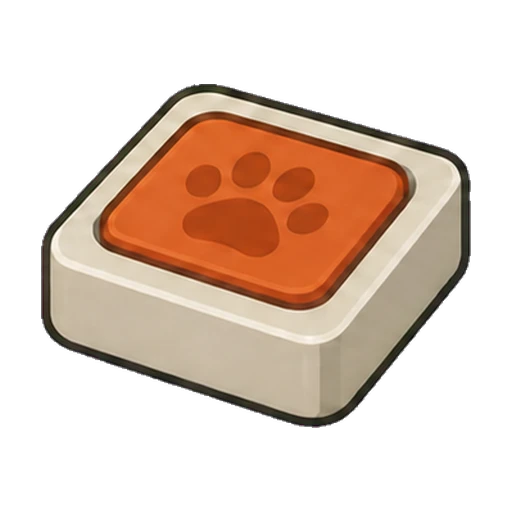
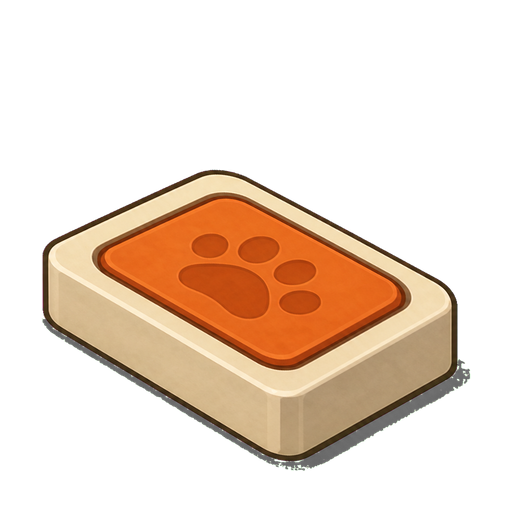
feat: 아이소 재작업 가구 7종을 넣고 stage1을 열었다
가구 아이소 재작업
  Codex가 만든 furniture-iso.webp 7종을 앱에 넣었다. 아이소의 핵심인
  좌우 대칭이 크게 잡혔다(상담 책상 좌우차 21.8도 -> 2.5도, 소파 37.2 -> 3.9,
  발도장 패드 32.1 -> 1.5). 패키지 catalog의 assetPath가 아직 옛
  furniture.png를 가리켜 생성기가 옛 값을 내므로 anchor는 override로 덮었다.

stage1 개방
  셸에서 문 밑선 (128,712)-(232,655)을 재서 격자로 되돌리니 y 4.87~6.37이다.
  칸 비율도 1.027이라 이미 정사각형이라 행 수는 그대로 둔다.

  문 위치와 통로를 단계별 표(STAGE_RULES)로 옮기고, 배치 검사·배회 가능 칸도
  단계를 받게 했다. 표에 있는 단계만 그린다 - 재지 않은 단계로 넘어가면
  이전 방으로 보여 주고 그 사실을 알린다(stage2~4가 아직 그렇다).

diff --git a/catdex-client/src/features/support-room-v3/support-room-v3.layout.ts b/catdex-client/src/features/support-room-v3/support-room-v3.layout.ts
@@ -11,7 +11,7 @@ import {
   type CompositeBehavior,
   type VisualBox,
 } from './render/sprite-layout';
-import { SHELL_GEOMETRY } from './render/shells.generated';
+import { SHELL_GEOMETRY, type RoomStage } from './render/shells.generated';
 
 export interface ObservationPlacement {
   furnitureId: FurnitureId;
@@ -33,8 +33,38 @@ export interface BusyObservationCat {
   on: FurnitureId;
 }
 
-const COLS = SHELL_GEOMETRY.stage0.cols;
-const ROWS = SHELL_GEOMETRY.stage0.rows;
+/**
+ * 단계별 방 규칙. 셸 그림에서 문 밑선을 재서 격자로 되돌린 값이다.
+ *
+ * 여기에 있는 단계만 실제로 열 수 있다(문 위치와 정사각 칸을 확인한 단계).
+ * 새 단계를 열려면 같은 방법으로 재서 한 줄 추가하면 된다.
+ */
+export interface StageRules {
+  /** 항상 비워 두는 출입문 앞 */
+  doorClearances: readonly GridRect[];
+  /** 문에서 방 가운데로 이어지는 통로 */
+  centerAisle: GridRect;
+}
+
+export const STAGE_RULES: Partial<Record<RoomStage, StageRules>> = {
+  // 문 밑선 (170,768)-(300,690) -> 격자 y 4.73~6.65
+  stage0: {
+    doorClearances: [{ x: 0, y: 4.6, width: 2, depth: 2 }],
+    centerAisle: { x: 2, y: 4.6, width: 3, depth: 2 },
+  },
+  // 문 밑선 (128,712)-(232,655) -> 격자 y 4.87~6.37
+  stage1: {
+    doorClearances: [{ x: 0, y: 4.7, width: 2, depth: 2 }],
+    centerAisle: { x: 2, y: 4.7, width: 4, depth: 2 },
+  },
+};
+
+/** 셸을 실제로 그릴 수 있는 단계. 확장 구매는 서버가 따로 판단한다. */
+export const CALIBRATED_STAGES = Object.keys(STAGE_RULES) as RoomStage[];
+
+export function stageRules(stage: RoomStage): StageRules {
+  return STAGE_RULES[stage] ?? STAGE_RULES.stage0!;
+}
 
 /**
  * 기본 장면 배치.
@@ -66,18 +96,9 @@ export interface GridRect {
   depth: number;
 }
 
-/**
- * 왼쪽 출입문 앞에 항상 비워 두는 2×2.
- *
- * 셸 원본에서 문지방 양 끝(170,768)·(300,690)을 재서 격자로 되돌리면
- * 문은 x≈0.28의 벽면에서 y 4.73~6.65를 차지한다(8행 격자 기준). 그 앞 2칸을 비운다.
- */
-export const STAGE0_DOOR_CLEARANCES: readonly GridRect[] = [
-  { x: 0, y: 4.6, width: 2, depth: 2 },
-];
-
-/** 문에서 방 가운데로 이어지는 통로. 가구로 막으면 고양이가 들어올 길이 없다. */
-export const STAGE0_CENTER_AISLE: GridRect = { x: 2, y: 4.6, width: 3, depth: 2 };
+/** 이전 이름 호환. 새 코드는 stageRules(stage)를 쓴다. */
+export const STAGE0_DOOR_CLEARANCES = STAGE_RULES.stage0!.doorClearances;
+export const STAGE0_CENTER_AISLE = STAGE_RULES.stage0!.centerAisle;
 
 const ACTION_APPROACHES = [
   { furnitureId: 'visitor_cushion_orange' as const, x: 3.9, y: 3.2 },
@@ -111,9 +132,9 @@ function pointInRect(point: { x: number; y: number }, rect: GridRect): boolean {
 
 export function observationFootprintCoverage(
   placements: readonly ObservationPlacement[],
-  cols = COLS,
-  rows = ROWS,
+  stage: RoomStage = 'stage0',
 ): number {
+  const { cols, rows } = SHELL_GEOMETRY[stage];
   const used = placements.reduce((sum, placement) => {
     const anchor = FURNITURE_ANCHORS[placement.furnitureId];
     return sum + anchor.footprintW * anchor.footprintD;
@@ -121,7 +142,11 @@ export function observationFootprintCoverage(
   return used / (cols * rows);
 }
 
-function hasPathToCenter(placements: readonly ObservationPlacement[]): boolean {
+function hasPathToCenter(
+  placements: readonly ObservationPlacement[],
+  stage: RoomStage,
+): boolean {
+  const { cols: COLS, rows: ROWS } = SHELL_GEOMETRY[stage];
   const step = 0.5;
   const obstacles = placements.map(placementRect);
   const start = { x: 0.25, y: 5.75 };
@@ -223,6 +248,8 @@ export function primaryIssueText(issues: readonly ObservationLayoutIssue[]): str
 }
 
 export interface LayoutCheckOptions {
+  /** 검사할 단계. 방 크기와 문 위치가 달라진다. */
+  stage?: RoomStage;
   /** 주면 화면 폭 기준 safe inset까지 검사한다. */
   projection?: IsoProjection;
   viewportWidth?: number;
@@ -235,18 +262,21 @@ export function validateObservationLayout(
   options: LayoutCheckOptions = {},
 ): ObservationLayoutIssue[] {
   const issues = new Set<ObservationLayoutIssue>();
+  const stage = options.stage ?? 'stage0';
+  const { cols: COLS, rows: ROWS } = SHELL_GEOMETRY[stage];
+  const rules = stageRules(stage);
   if (placements.length > 6) issues.add('too_many_furniture');
-  if (observationFootprintCoverage(placements) > 0.35) issues.add('too_dense');
+  if (observationFootprintCoverage(placements, stage) > 0.35) issues.add('too_dense');
 
   const rects = placements.map(placementRect);
   rects.forEach((rect, index) => {
     if (rect.x < 0 || rect.y < 0 || rect.x + rect.width > COLS || rect.y + rect.depth > ROWS) {
       issues.add('out_of_bounds');
     }
-    if (STAGE0_DOOR_CLEARANCES.some((clearance) => rectsOverlap(rect, clearance))) {
+    if (rules.doorClearances.some((clearance) => rectsOverlap(rect, clearance))) {
       issues.add('door_blocked');
     }
-    if (rectsOverlap(rect, STAGE0_CENTER_AISLE)) {
+    if (rectsOverlap(rect, rules.centerAisle)) {
       issues.add('aisle_blocked');
     }
     if (rects.some((other, otherIndex) => otherIndex !== index && rectsOverlap(rect, other))) {
@@ -267,10 +297,10 @@ export function validateObservationLayout(
       issues.add('approach_blocked');
     }
   }
-  if (!hasPathToCenter(placements)) issues.add('walkway_blocked');
+  if (!hasPathToCenter(placements, stage)) issues.add('walkway_blocked');
 
   // 격자만으로는 못 잡는 것들. 그림이 실제로 겹치는지, 화면 밖으로 나가는지.
-  const projection = options.projection ?? createProjection('stage0', 1);
+  const projection = options.projection ?? createProjection(stage, 1);
   const busyCats = options.busyCats ?? DEFAULT_BUSY_CATS;
   const idleCats = options.idleCats ?? DEFAULT_IDLE_CATS;
 
@@ -326,7 +356,10 @@ export function createDefaultObservationLayout(): readonly ObservationPlacement[
  */
 export function wanderableCells(
   placements: readonly ObservationPlacement[],
+  stage: RoomStage = 'stage0',
 ): { x: number; y: number }[] {
+  const { cols: COLS, rows: ROWS } = SHELL_GEOMETRY[stage];
+  const rules = stageRules(stage);
   const blocked = placements.map(placementRect);
   const cells: { x: number; y: number }[] = [];
 
@@ -334,8 +367,8 @@ export function wanderableCells(
     for (let x = 0; x < COLS; x += 1) {
       const point = { x: x + 0.5, y: y + 0.5 };
       if (blocked.some((rect) => pointInRect(point, rect))) continue;
-      if (STAGE0_DOOR_CLEARANCES.some((rect) => pointInRect(point, rect))) continue;
-      if (pointInRect(point, STAGE0_CENTER_AISLE)) continue;
+      if (rules.doorClearances.some((rect) => pointInRect(point, rect))) continue;
+      if (pointInRect(point, rules.centerAisle)) continue;
       cells.push({ x, y });
     }
   }

diff --git a/catdex-client/src/features/support-room-v3/IsoRoomSpikeScreen.tsx b/catdex-client/src/features/support-room-v3/IsoRoomSpikeScreen.tsx
@@ -62,6 +62,7 @@ import { FURNITURE_ANCHORS } from './render/furniture-anchors.generated';
 import { calculateIdleCatLayout } from './render/sprite-layout';
 import { SHELL_GEOMETRY, type RoomStage } from './render/shells.generated';
 import {
+  CALIBRATED_STAGES,
   createDefaultObservationLayout,
   primaryIssueText,
   validateObservationLayout,
@@ -92,14 +93,9 @@ import {
  */
 
 /**
- * 셸 그림·문 위치·격자 보정이 끝난 단계.
- *
- * 서버는 이미 stage4까지 팔 수 있지만, 방을 실제로 그리려면 단계마다
- * 문 위치와 정사각 칸 행 수를 셸에서 재야 한다. 아직 stage0만 재 뒀다.
- * 잰 단계를 여기 추가하면 그때부터 그 단계로 열린다.
+ * 셸 그림·문 위치·정사각 칸을 확인한 단계만 실제로 그린다.
+ * 목록은 layout의 STAGE_RULES가 정본이다(잰 값이 거기 있다).
  */
-const CALIBRATED_STAGES: readonly RoomStage[] = ['stage0'];
-
 function renderableStage(stage: string): RoomStage {
   return CALIBRATED_STAGES.includes(stage as RoomStage) ? (stage as RoomStage) : 'stage0';
 }
@@ -245,7 +241,7 @@ export function IsoRoomSpikeScreen() {
         );
         // 격자 규칙만 본다. 화면 폭 기준 safe area로 거르면 좁은 기기에서
         // 사용자가 저장해 둔 배치가 조용히 사라진다.
-        if (validateObservationLayout(merged).length === 0) {
+        if (validateObservationLayout(merged, { stage: 'stage0' }).length === 0) {
           setPlacements(merged);
           void saveV3Placements(merged);
         }
@@ -286,8 +282,8 @@ export function IsoRoomSpikeScreen() {
    */
   const { seated: seatedVisitors, wandering: wanderingVisitors } = useMemo(() => {
     const placedIds = new Set(shown.map((placement) => placement.furnitureId));
-    return splitVisitorsByFurniture(busyVisitors, placedIds, wanderableCells(shown));
-  }, [busyVisitors, shown]);
+    return splitVisitorsByFurniture(busyVisitors, placedIds, wanderableCells(shown, STAGE));
+  }, [busyVisitors, shown, STAGE]);
 
   const idleVisitor = useMemo(() => {
     if (!userId) return null;
@@ -358,9 +354,10 @@ export function IsoRoomSpikeScreen() {
     (next: readonly ObservationPlacement[]) =>
       validateObservationLayout(next, {
         projection: createProjection(STAGE, calculateShellFitScale(SHELL_GEOMETRY[STAGE], roomViewport)),
+        stage: STAGE,
         viewportWidth: roomViewport.width,
       }),
-    [roomViewport],
+    [roomViewport, STAGE],
   );
 
   const pushUndo = useCallback(() => {

diff --git a/catdex-client/src/features/support-room-v3/__tests__/observation-layout.test.ts b/catdex-client/src/features/support-room-v3/__tests__/observation-layout.test.ts
@@ -2,9 +2,12 @@ import { describe, expect, it } from 'vitest';
 import { FURNITURE_CATALOG } from '@/features/support-room-v2/domain/catalog.generated';
 import { FURNITURE_ANCHORS } from '../render/furniture-anchors.generated';
 import { createProjection } from '../render/projection';
+import { SHELL_GEOMETRY } from '../render/shells.generated';
 import {
+  CALIBRATED_STAGES,
   STAGE0_CENTER_AISLE,
   STAGE0_DOOR_CLEARANCES,
+  stageRules,
   createDefaultObservationLayout,
   observationFootprintCoverage,
   primaryIssueText,
@@ -86,5 +89,38 @@ describe('기본 배치와 보관함', () => {
       const entry = FURNITURE_CATALOG.find((f) => f.id === placement.furnitureId);
       expect(entry?.acquisition, placement.furnitureId).toBe('starter');
     }
+  });
+});
+
+describe('단계별 방 규칙', () => {
+  it('열 수 있는 단계는 문 위치와 통로가 모두 정의돼 있다', () => {
+    expect(CALIBRATED_STAGES.length).toBeGreaterThan(0);
+    for (const stage of CALIBRATED_STAGES) {
+      const rules = stageRules(stage);
+      expect(rules.doorClearances.length, stage).toBeGreaterThan(0);
+      expect(rules.centerAisle.width, stage).toBeGreaterThan(0);
+    }
+  });
+
+  it('열 수 있는 단계는 칸이 정사각형이다', () => {
+    for (const stage of CALIBRATED_STAGES) {
+      const { axisX, axisY } = SHELL_GEOMETRY[stage];
+      const ratio = Math.hypot(axisY.x, axisY.y) / Math.hypot(axisX.x, axisX.y);
+      expect(ratio, stage).toBeGreaterThan(0.95);
+      expect(ratio, stage).toBeLessThan(1.05);
+    }
+  });
+
+  it('stage1은 방이 넓어져 기본 배치가 그대로 통과한다', () => {
+    expect(validateObservationLayout(base, { stage: 'stage1' })).toEqual([]);
+  });
+
+  it('stage1 문 앞을 막으면 잡아낸다', () => {
+    const clearance = stageRules('stage1').doorClearances[0];
+    const issues = validateObservationLayout(
+      moved('visitor_cushion_orange', clearance.x, clearance.y),
+      { stage: 'stage1' },
+    );
+    expect(issues).toContain('door_blocked');
   });
 });

diff --git a/catdex-client/src/features/support-room-v3/render/sprite-layout.ts b/catdex-client/src/features/support-room-v3/render/sprite-layout.ts
@@ -47,7 +47,16 @@ export const SHADOW_COLOR = SHADOW.color;
  * 세던 버그를 손으로 때운 것이라, 생성기를 고치면서 지웠다.)
  */
 const FURNITURE_ANCHOR_OVERRIDES: Partial<Record<FurnitureId, SpriteAnchor>> = {
-  // 2026-08-20에 아이소 시점으로 다시 그린 6종. generated 파일은 옛 그림 기준이다.
+  // 2026-08-20에 아이소 시점으로 다시 그린 그림들. 패키지 catalog의 assetPath는
+  // 아직 옛 furniture.png를 가리켜서 생성기가 옛 값을 낸다. 앱이 쓰는 그림 기준으로
+  // 여기서 덮는다. assetPath가 furniture-iso로 바뀌면 이 표는 지워도 된다.
+  consultation_desk_honey: { contentX: 0.1289, contentY: 0.0801, contentW: 0.7422, contentH: 0.8398, baselineY: 0.9199 },
+  reception_desk_cream: { contentX: 0.0801, contentY: 0.2578, contentW: 0.8398, contentH: 0.6602, baselineY: 0.918 },
+  office_sofa_sage: { contentX: 0.0801, contentY: 0.1973, contentW: 0.8398, contentH: 0.7227, baselineY: 0.9199 },
+  meeting_table_round: { contentX: 0.2363, contentY: 0.0801, contentW: 0.5254, contentH: 0.8398, baselineY: 0.9199 },
+  office_partition_cream: { contentX: 0.0801, contentY: 0.2441, contentW: 0.8379, contentH: 0.6758, baselineY: 0.9199 },
+  document_organizer_cream: { contentX: 0.2109, contentY: 0.0801, contentW: 0.5781, contentH: 0.8398, baselineY: 0.9199 },
+  paw_stamp_pad_orange: { contentX: 0.082, contentY: 0.3301, contentW: 0.8359, contentH: 0.5898, baselineY: 0.9199 },
   visitor_cushion_orange: { contentX: 0.0625, contentY: 0.2637, contentW: 0.875, contentH: 0.6113, baselineY: 0.875 },
   swivel_chair_lavender: { contentX: 0.2461, contentY: 0.0938, contentW: 0.5059, contentH: 0.7812, baselineY: 0.875 },
   paper_basket_cream: { contentX: 0.1484, contentY: 0.0938, contentW: 0.7031, contentH: 0.7812, baselineY: 0.875 },
